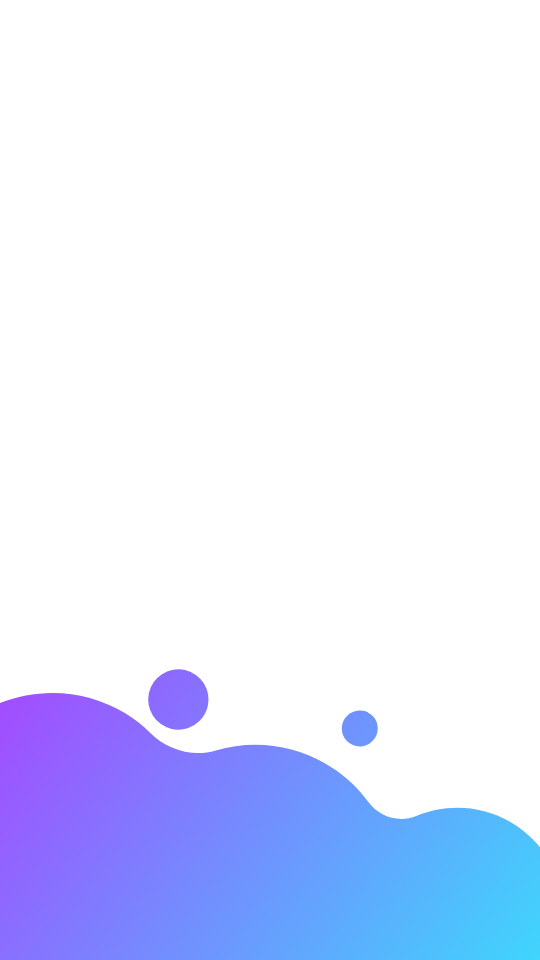
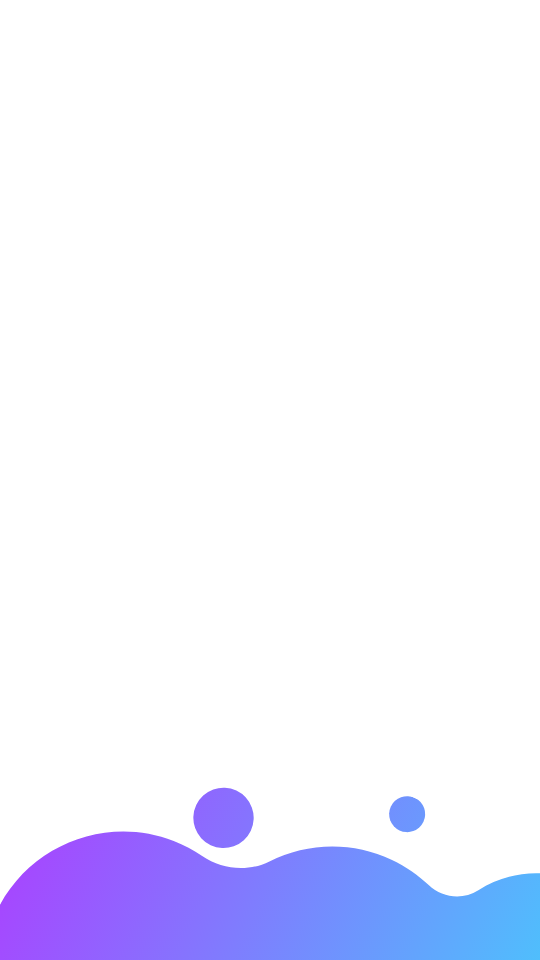
edit basic style

Changed region(s): [[0.0, 0.6875, 1.0, 1.0]]

diff --git a/src/components/HomeCard.js b/src/components/HomeCard.js
@@ -1,46 +1,44 @@
 import React from "react";
-import { Container, Row, Col, Card, Button } from "react-bootstrap";
+import { Container, Row, Card, Button } from "react-bootstrap";
 import { Link } from "react-router-dom";
 
 export default function HomeCard() {
   return (
-    <Container className="homeContainer">
-      <Row>
-        <Col>
-          <Card className="gameCard">
-            <Card.Body>
-              <Card.Title className="gameTitle">
-                <svg id="gameTitle" viewBox="0 0 600 300">
-                  <text
-                    text-anchor="middle"
-                    x="50%"
-                    y="50%"
-                    dy=".35em"
-                    class="text"
-                    fill="url(#gr-simple)"
-                  >
-                    Guess the landmark
-                  </text>
-                </svg>
-              </Card.Title>
-              <Card.Text className="gameDesc">
-                One minute to guess as many landmarks as you can.
-              </Card.Text>
-              <div className="btnContainer">
-                <Link exact path="/landmark">
-                  <Button
-                    style={{
-                      color: "white",
-                      width: "200px",
-                    }}
-                  >
-                    Play
-                  </Button>
-                </Link>
-              </div>
-            </Card.Body>
-          </Card>
-        </Col>
+    <Container fluid>
+      <Row className="cardRow">
+        <Card className="gameCard">
+          <Card.Body>
+            <Card.Title className="gameTitle">
+              <svg id="gameTitle" viewBox="0 0 600 300">
+                <text
+                  text-anchor="middle"
+                  x="50%"
+                  y="50%"
+                  dy=".35em"
+                  class="text"
+                  fill="url(#gr-simple)"
+                >
+                  Guess the landmark
+                </text>
+              </svg>
+            </Card.Title>
+            <Card.Text className="gameDesc">
+              One minute to guess as many landmarks as you can.
+            </Card.Text>
+            <div className="btnContainer">
+              <Link to={"/landmark"}>
+                <Button
+                  style={{
+                    color: "white",
+                    width: "200px",
+                  }}
+                >
+                  Play
+                </Button>
+              </Link>
+            </div>
+          </Card.Body>
+        </Card>
       </Row>
     </Container>
   );

diff --git a/src/App.css b/src/App.css
@@ -1,10 +1,14 @@
 body {
   margin: 0;
-  padding: 1.5em 0em 1em 0em;
+  padding: 1em 0em 1em 0em;
   background-color: #141414;
+  height: 100%;
 }
 
 /* Navbar */
+.navContainer {
+  max-width: 600px;
+}
 
 .navBar {
   margin-top: 2em;
@@ -23,24 +27,24 @@ body {
 }
 
 /* Main Section */
-.homeContainer,
-.landmarkContainer {
-  max-width: 1024px;
-  height: 700px;
+.cardRow {
+  width: 100%;
   display: flex;
   justify-content: center;
   align-items: center;
-  flex-direction: column;
+  margin-left: 0.5em;
 }
 
-.gameCard {
-  width: 23rem;
+.gameCard,
+.landmarkCard {
+  width: 24rem;
+  height: 30rem;
   color: white;
   font-size: 1.5rem;
   background-color: #343434;
   display: flex;
   justify-content: center;
-  flex-direction: column;
+  align-items: center;
   border-radius: 10px;
 }
 
@@ -59,21 +63,27 @@ body {
 }
 
 /* Footer section */
+.rowFooter {
+  width: 100%;
+}
+
 .footer {
   background-image: url("./img/background_bottom.png");
   background-position: bottom;
   background-repeat: no-repeat;
   width: 100%;
   height: 300px;
-  z-index: -1;
 }
 
-@media only screen and (max-width: 768px) {
+@media only screen and (max-width: 375px) {
+  body {
+    height: 100%;
+  }
   .footer {
     background-size: cover;
     background-position: bottom;
     width: 100%;
-    height: 370px;
+    max-height: 200px;
   }
   .text {
     font-size: 2.5em;
@@ -81,24 +91,16 @@ body {
     width: 100%;
     height: 200px;
   }
-  .gameCard {
+  .gameCard,
+  .landmarkCard {
     width: 18rem;
-    margin: 1em;
+    margin: 1em 0.5em 1em 0em;
   }
 
   #gameTitle {
     font-size: 1.35em;
     font-weight: 700;
   }
-  .homeContainer {
-    height: fit-content;
-  }
-}
-
-/* button */
-:root {
-  --purple: #7f00ff;
-  --pink: #e100ff;
 }
 
 button {

diff --git a/src/components/Title.js b/src/components/Title.js
@@ -4,10 +4,11 @@ import "../App.css";
 
 export default function Title() {
   return (
-    <Container className="border-md-left border-md-right">
+    <Container>
       <Row>
         <svg className="text" viewBox="0 0 600 300">
           <text
+            id="shiny"
             text-anchor="middle"
             x="50%"
             y="50%"
@@ -17,7 +18,14 @@ export default function Title() {
           >
             Trivia Wars
           </text>
-          <linearGradient id="gr-simple" x1="0" y1="0" x2="100%" y2="100%">
+          <linearGradient
+            id="gr-simple"
+            className="shiny"
+            x1="0"
+            y1="0"
+            x2="100%"
+            y2="100%"
+          >
             <stop stop-color="hsl(50, 100%, 70%)" offset="10%" />
             <stop stop-color="hsl(320, 100%, 50%)" offset="90%" />
           </linearGradient>

diff --git a/src/components/LandmarkCard.js b/src/components/LandmarkCard.js
@@ -1,17 +1,15 @@
 import React from "react";
-import { Container, Row, Col, Card } from "react-bootstrap";
+import { Container, Row, Card } from "react-bootstrap";
 
 export default function LandmarkCard() {
   return (
-    <Container className="landmarkContainer">
-      <Row>
-        <Col>
-          <Card className="landmarkCard">
-            <Card.Body>
-              <Card.Img variant="top" src="holder.js/100px180?text=Image cap" />
-            </Card.Body>
-          </Card>
-        </Col>
+    <Container fluid>
+      <Row className="cardRow">
+        <Card className="landmarkCard">
+          <Card.Body>
+            <Card.Img variant="top" src="holder.js/100px180?text=Image cap" />
+          </Card.Body>
+        </Card>
       </Row>
     </Container>
   );

diff --git a/src/App.js b/src/App.js
@@ -10,12 +10,12 @@ import { Switch, Route } from "react-router-dom";
 
 function App() {
   return (
-    <Container>
+    <Container fluid>
       <Navigation />
       <Title />
       <Switch>
         <Route path="/landmark" component={LandmarkCard} />
-        <Route path="/home" component={HomeCard} />
+        <Route path="/" component={HomeCard} />
       </Switch>
       <Footer />
     </Container>

diff --git a/src/components/Footer.js b/src/components/Footer.js
@@ -1,11 +1,11 @@
 import React from "react";
-import { Container, Row, Col } from "react-bootstrap";
+import { Container, Row } from "react-bootstrap";
 
 export default function Footer() {
   return (
-    <Container className="footerContainer">
+    <Container>
       <Row>
-        <Col className="footer"></Col>
+        <div className="footer"></div>
       </Row>
     </Container>
   );

diff --git a/src/components/Navigation.js b/src/components/Navigation.js
@@ -6,7 +6,7 @@ export default function Navigation() {
     <Container className="navContainer">
       <Row>
         <Col>
-          <Nav sticky="top" className="navBar">
+          <Nav className="navBar">
             <Nav.Item>
               <Nav.Link href="/home">
                 <svg
